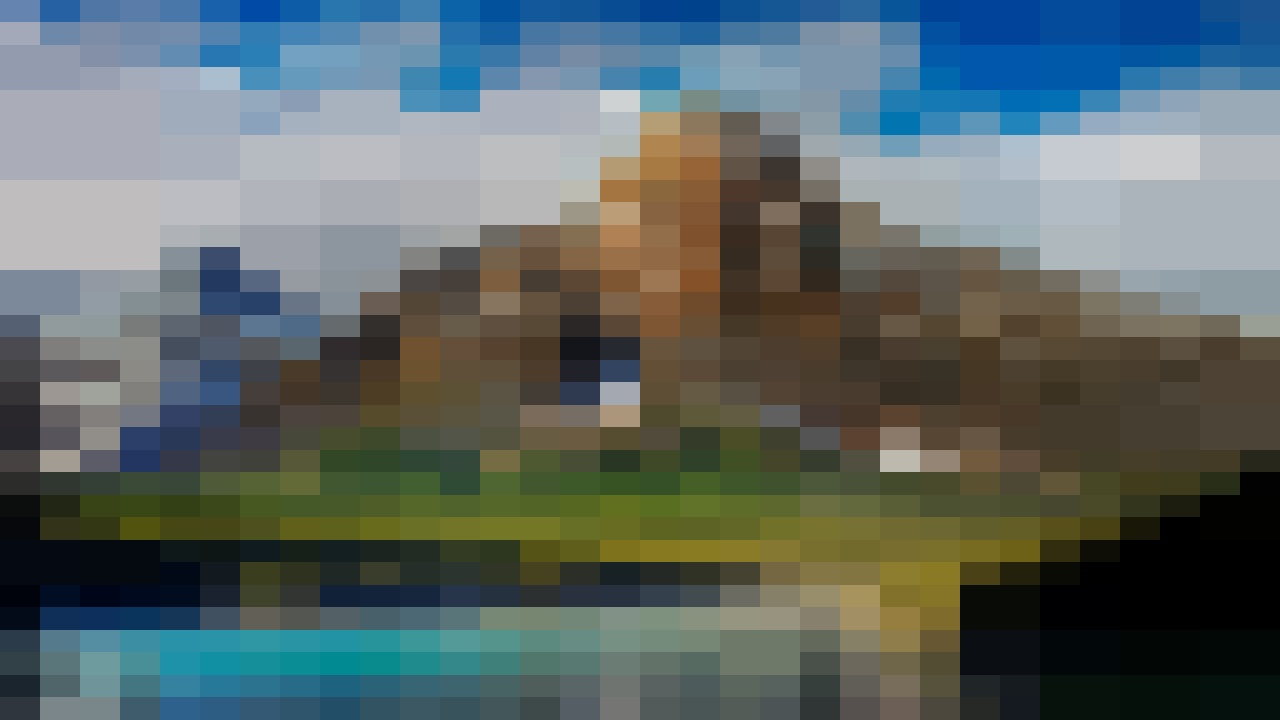
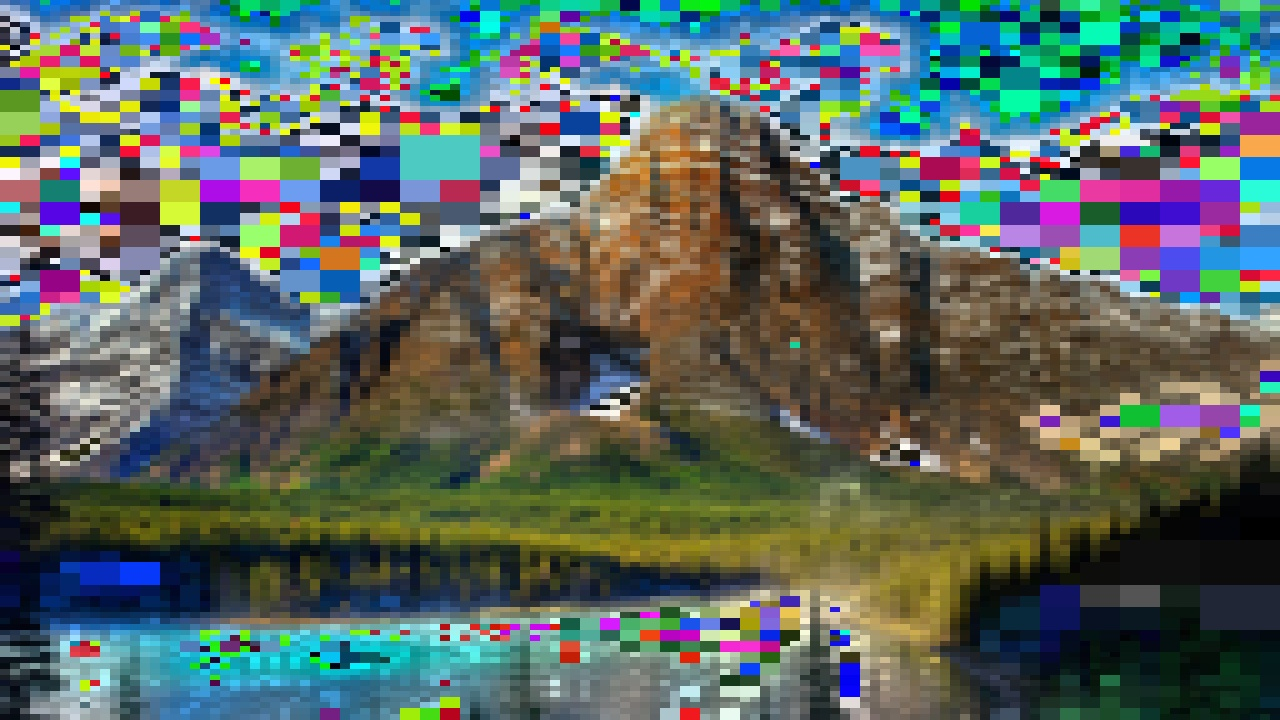
moved process to a class and added a progress bar

diff --git a/converter.py b/converter.py
@@ -1,0 +1,49 @@
+import numpy as np
+
+
+class Converter:
+    def __init__(self, img: np.ndarray):
+        self.__img = img.copy()
+        self.__output_img = img.copy()
+        self.__progress = 0
+
+    def set_image(self, img: np.ndarray):
+        self.__img = img.copy()
+
+    def quadify_image(self, max_colors):
+        print('    25   50   75   100')
+        self.__output_img = self.__img.copy()
+        width, height, *_ = self.__output_img.shape
+        self._quad(0, 0, width, height, max_colors, 0)
+        print(' | Complete')
+        return self.__output_img
+
+    def _update_progress(self, new_progress):
+        temp = self.__progress
+        self.__progress += new_progress
+        if temp // 0.05 < self.__progress // 0.05:
+            print('#', end='')
+
+
+    def _quad(self, x, y, nx, ny, max_colors, depth):
+        colors = set()
+        width = nx - x
+        height = ny - y
+        for i in range(x, nx):
+            for j in range(y, ny):
+                colors.add(str(self.__output_img[i, j, :]))
+                if len(colors) > max_colors:
+                    break
+            if len(colors) > max_colors:
+                break
+
+        if len(colors) <= max_colors:
+            # pixel_to_color_ratio = width * height / len(colors)
+            self.__output_img[x: nx, y: ny, :] = np.mean(self.__output_img[x: nx, y: ny, :], axis=(0, 1)) # * pixel_to_color_ratio
+            self._update_progress(0.25 ** depth)
+        elif width > 4 and height > 4:
+            mx, my = width // 2 + x, height // 2 + y
+            self._quad(x, y, mx, my, max_colors, depth + 1)
+            self._quad(mx, y, nx, my, max_colors, depth + 1)
+            self._quad(x, my, mx, ny, max_colors, depth + 1)
+            self._quad(mx, my, nx, ny, max_colors, depth + 1)

diff --git a/main.py b/main.py
@@ -1,50 +1,21 @@
 import cv2
-import numpy as np
+from converter import *
 
-
-def quad(img: np.ndarray, x, y, nx, ny, max_colors):
-    colors = set()
-    width = nx - x
-    height = ny - y
-    for i in range(x, nx):
-        for j in range(y, ny):
-            colors.add(str(img[i, j, :]))
-            if len(colors) > max_colors:
-                break
-        if len(colors) > max_colors:
-            break
-
-    if len(colors) <= max_colors:
-        mean = np.array([0, 0, 0])
-        for i in range(x, nx):
-            for j in range(y, ny):
-                mean += img[i, j, :]
-        mean //= width * height
-        img[x: nx, y: ny, :] = np.repeat([np.repeat([mean], ny - y, axis=0)], nx - x, axis=0)
-    elif width > 4 and height > 4:
-        mx, my = width // 2 + x, height // 2 + y
-        quad(img, x, y, mx, my, max_colors)
-        quad(img, mx, y, nx, my, max_colors)
-        quad(img, x, my, mx, ny, max_colors)
-        quad(img, mx, my, nx, ny, max_colors)
-
-
-image_name = 'scenery.jpg'
+image_name = 'scenery2.jpg'
 
 image_cv2 = cv2.imread(f'sample-imgs/{image_name}')
 
-width, height, *_ = image_cv2.shape
+maker = Converter(image_cv2)
 
-quad(image_cv2, 0, 0, width, height, 1000)
+quad_image = maker.quadify_image(100)
 
-print(image_cv2.size)
+result = cv2.imwrite(f'output/{image_name}', quad_image)
 
-result = cv2.imwrite(f'output/{image_name}', image_cv2)
 if result:
     print('File saved successfully')
 else:
     print('Error in saving file')
 
-cv2.imshow("Image display", image_cv2)
+cv2.imshow("Image display", quad_image)
 cv2.waitKey(0)
 cv2.destroyAllWindows()
